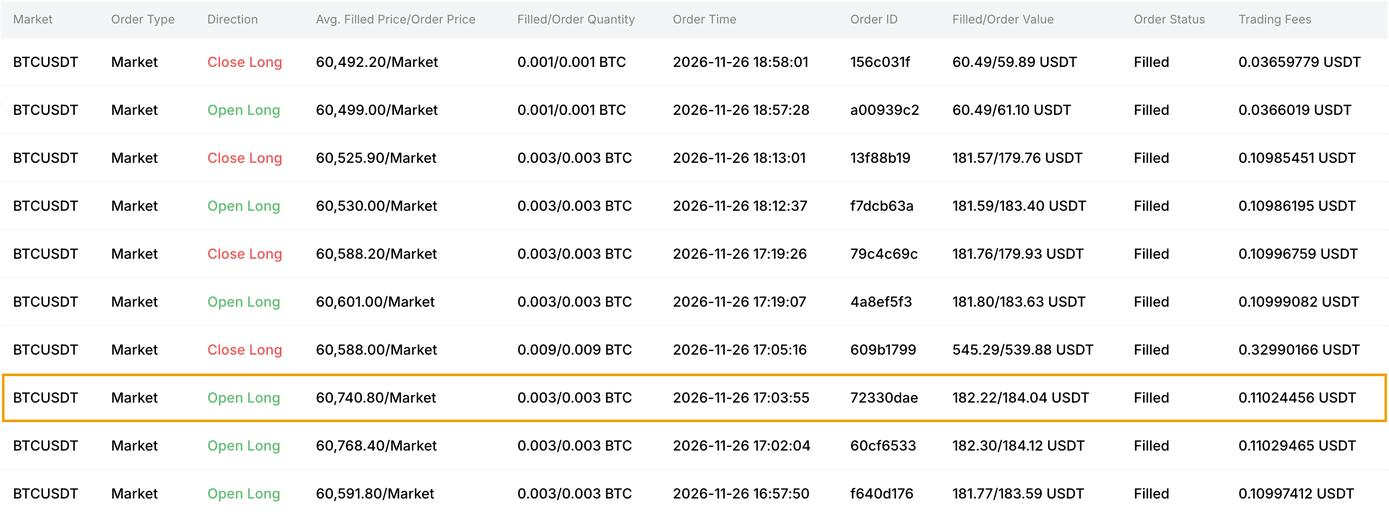
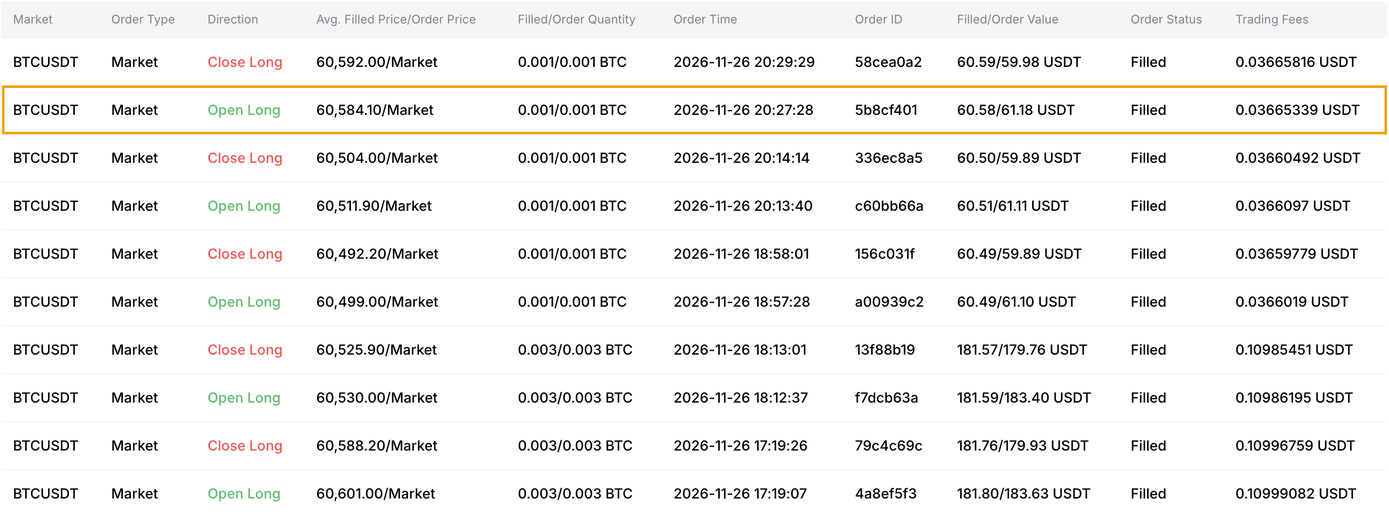
README proof: the demo-video order, identical ID on glasses, Bybit and Telegram

diff --git a/README.md b/README.md
@@ -21,12 +21,12 @@ Callout reads the Telegram trade-call groups you choose. It checks each call aga
 
 ### Proof: one real order, three places
 
-A live call posted in Telegram, confirmed on the glasses, filled on Bybit Demo, receipt back in the group. Order ID `61bc839c-d5a6-4b7f-87cd-b0e372330dae`: the receipt shows its start, and Bybit's Order ID column shows its last 8 characters (`72330dae`). The glasses and receipt now use Bybit's last-8 form, so all three match character for character.
+A live call posted in Telegram, adjusted by voice, confirmed with a tap on the glasses, filled on Bybit Demo, and receipted back in the group. Bybit's Order History shows the last 8 characters of the order ID, and the glasses and receipt show the same 8: **`5b8cf401`** (full ID `cef94558-bf1d-42d7-a02a-67955b8cf401`).
 
 | Glasses: filled | Bybit Demo: Order History | Telegram: receipt |
 |---|---|---|
-| ![glasses fill](screenshots/22-telegram-result.png) | ![bybit order](screenshots/proof-bybit-order.png) | ![telegram receipt](screenshots/proof-telegram-receipt.png) |
-| `FILLED 0.003 BTC @ 60,740.8` | `Open Long · 60,740.80 · 0.003 BTC · 17:03:55 · 72330dae` | `Buy 0.003 @ 60,740.8 · Order 61bc839c...0dae` |
+| ![glasses fill](screenshots/proof-glasses-order.png) | ![bybit order](screenshots/proof-bybit-order.png) | ![telegram receipt](screenshots/proof-telegram-receipt.png) |
+| `FILLED 0.001 BTC @ 60,584.1 · Order ...5b8cf401` | `Open Long · 60,584.10 · 0.001 BTC · 20:27:28 · 5b8cf401` | `Buy 0.001 @ 60,584.1 · Order ...5b8cf401` |
 
 ## The problem
 
